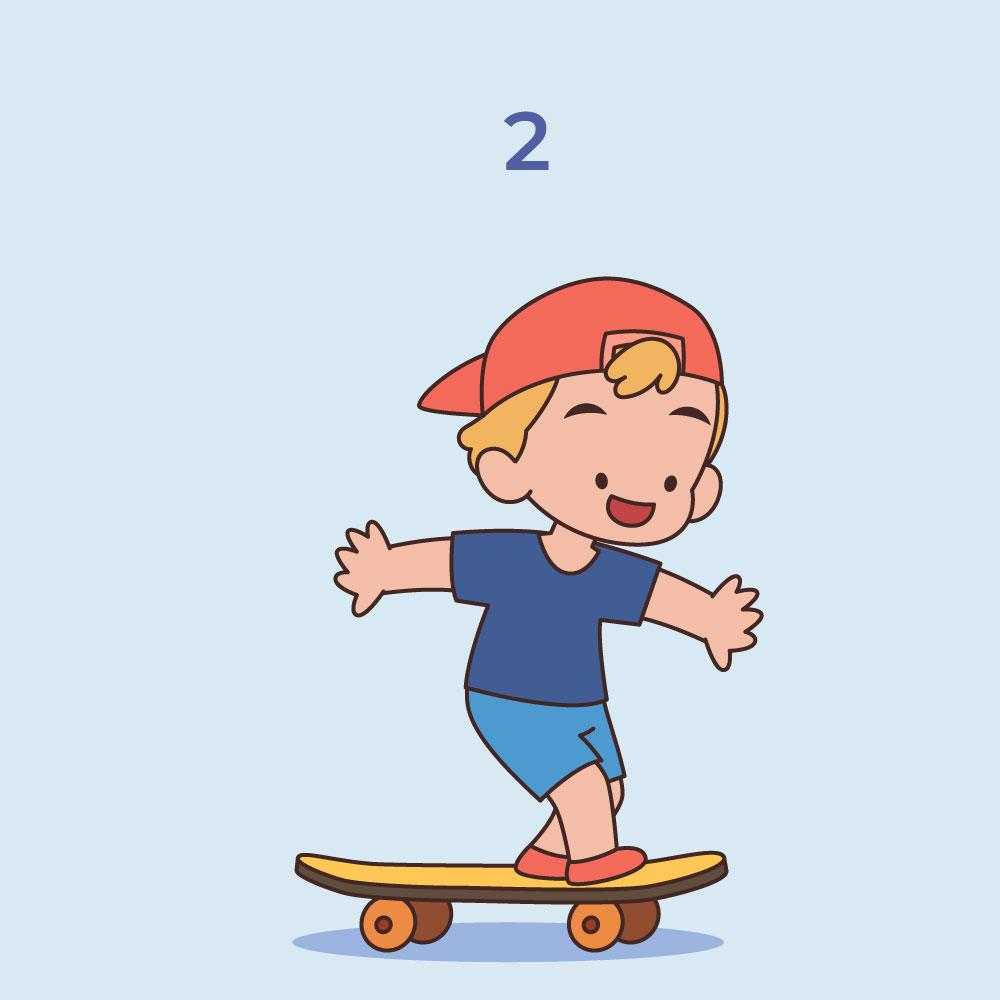
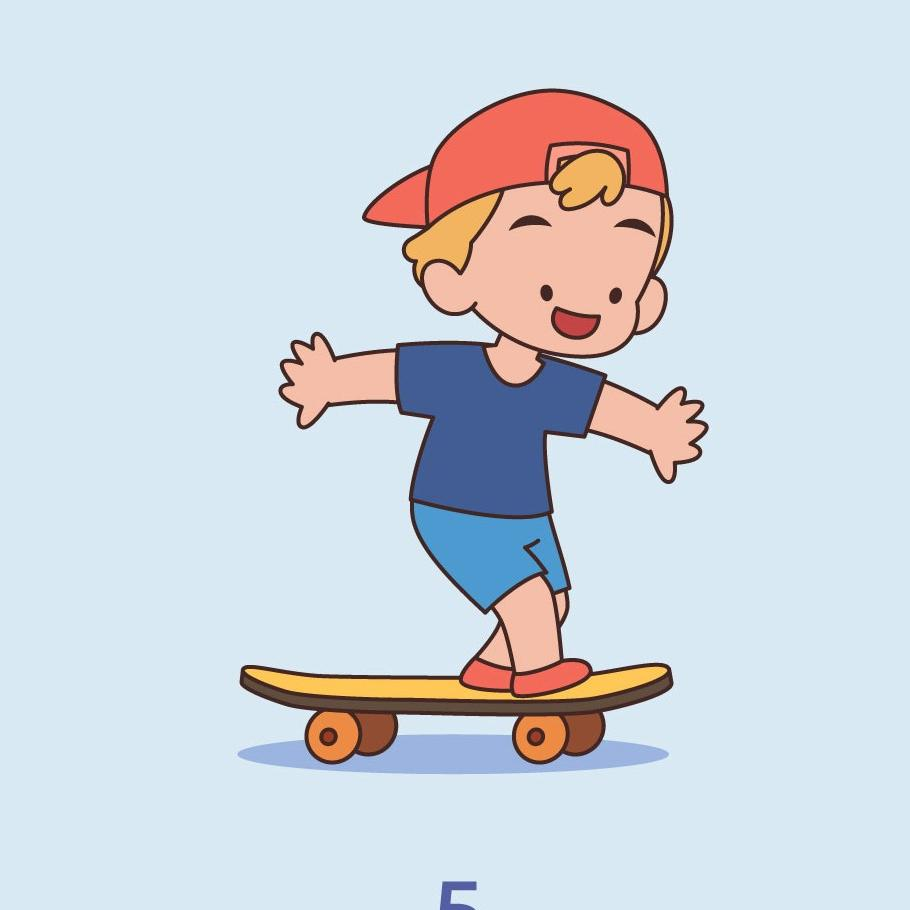
add create_gif

Changed region(s): [[0.2462, 0.0923, 0.8, 1.0]]

diff --git a/makeGif/create_gif.py b/makeGif/create_gif.py
@@ -1,0 +1,30 @@
+import os 
+from PIL import Image
+
+# open cropped_images folder and append the images in a list
+cropped_image_folder = "cropped_images"
+images = []
+for fileName in os.listdir(cropped_image_folder):
+    image_path = os.path.join(cropped_image_folder, fileName)
+    image = Image.open(image_path)
+    images.append(image)
+
+# set a output gif folder
+gif_folder = "created_gif"
+if not os.path.exists(gif_folder):
+    os.makedirs(gif_folder)
+
+gif_save_name = "firstGif.gif"
+gif_save_path = os.path.join(gif_folder, gif_save_name)
+
+
+# create gif
+images[0].save(
+    gif_save_path,
+    save_all=True,
+    append_images=images[1:],
+    duration=100,
+    loop=0
+)
+
+print("Gif created successfully")

diff --git a/makeGif/crop_image.py b/makeGif/crop_image.py
@@ -15,8 +15,8 @@ image = Image.open("original_image.jpg")
 width, height = image.size
 
 # Define the dimensions for the cropped images
-crop_image_width = 1000
-crop_image_height = 1000
+crop_image_width = 910
+crop_image_height = 910
 
 # Crop image and save it
 for left in range(0, width, crop_image_width):
